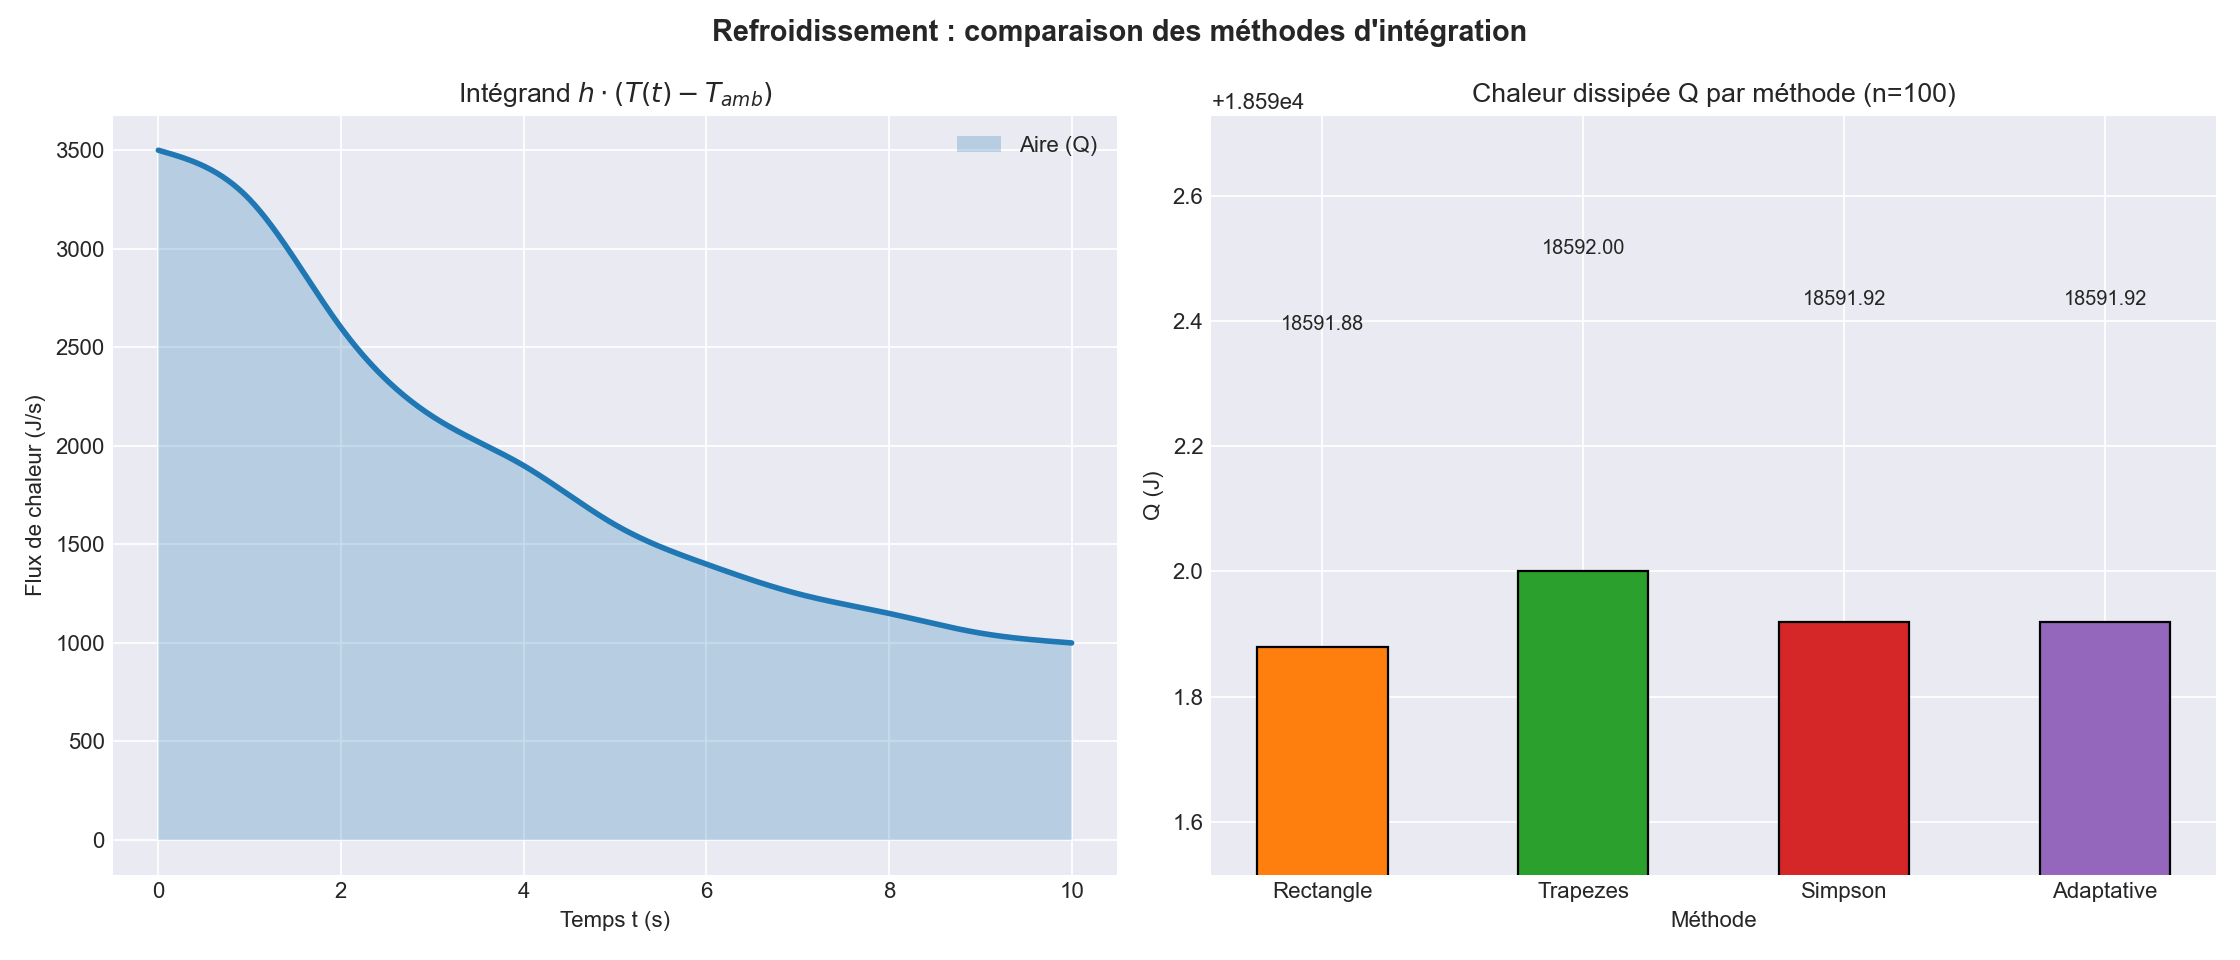
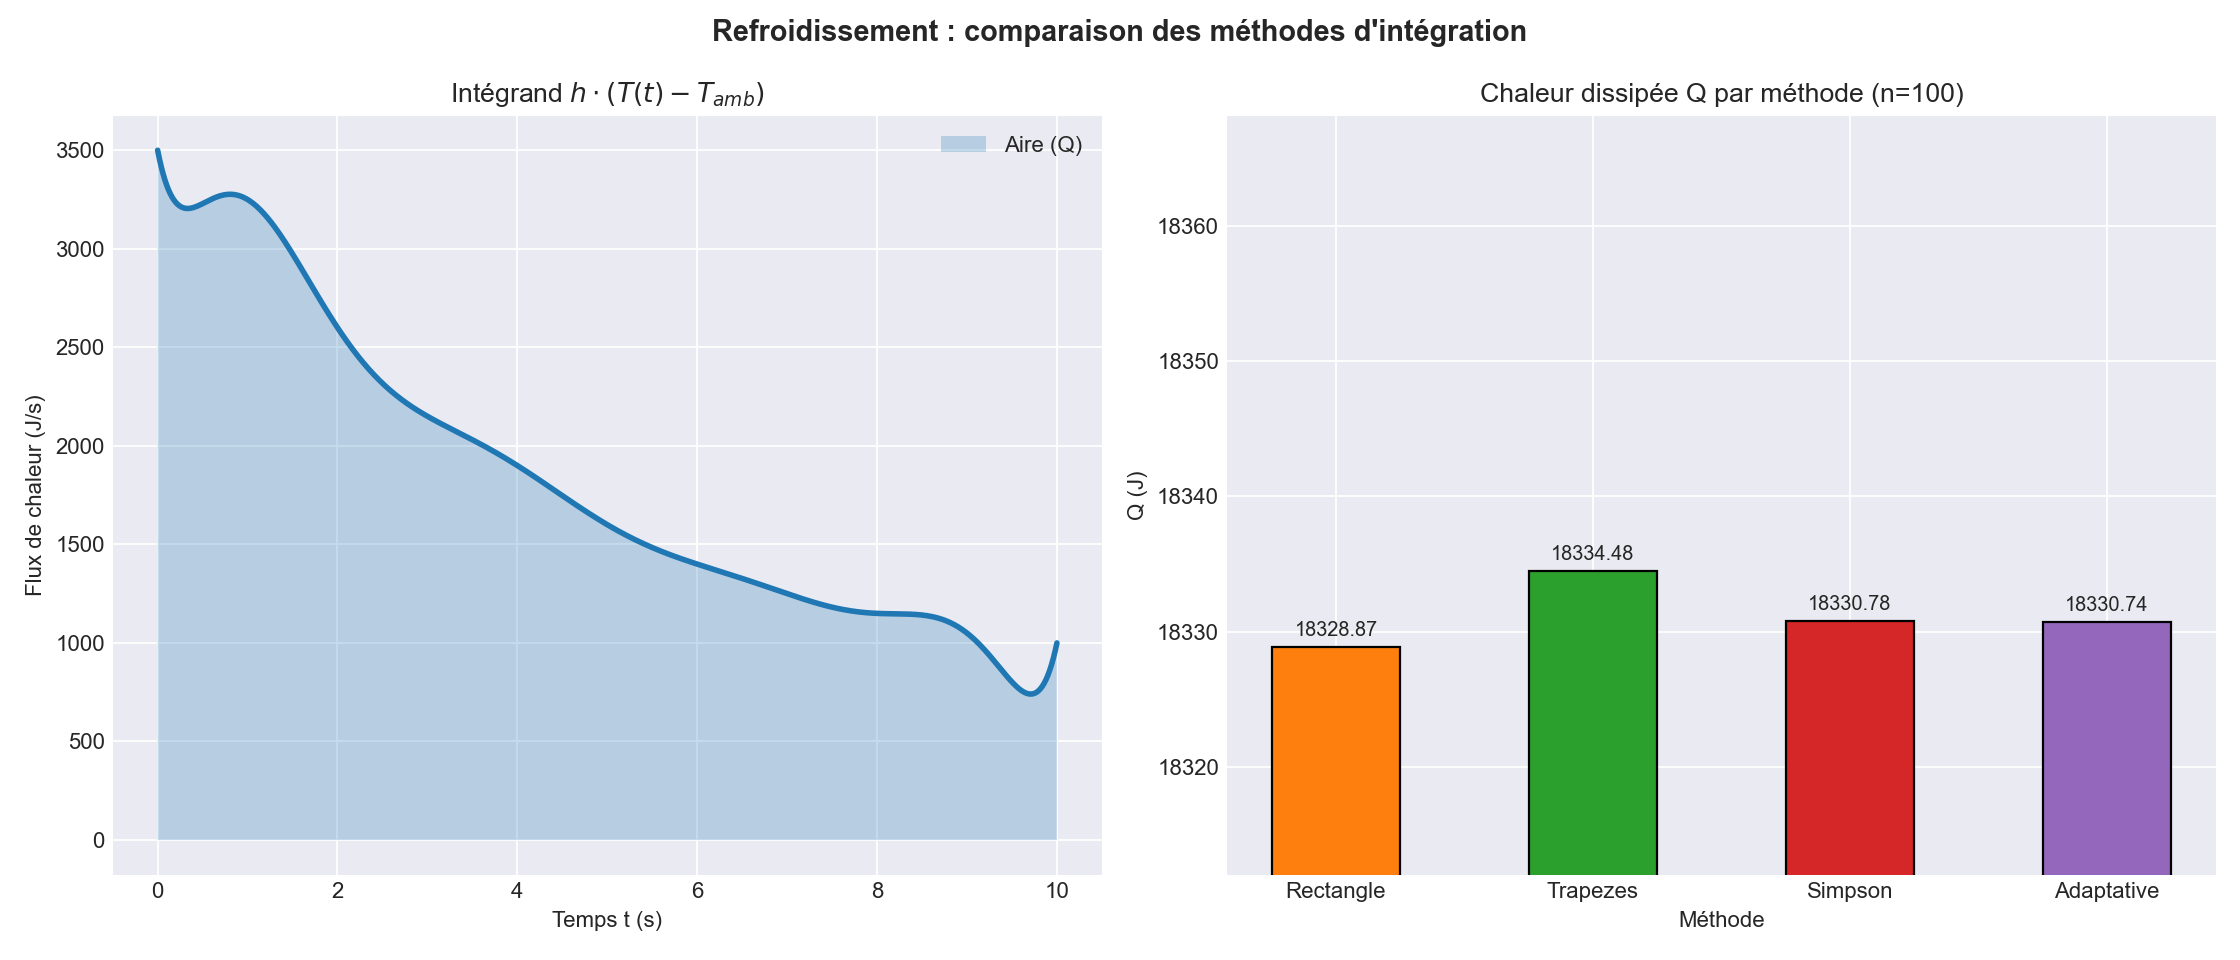
updateeee

diff --git a/applications.py b/applications.py
@@ -146,6 +146,17 @@ class FlowProblem:
     def local_flow_rate(self, x_eval):
         return self.velocity(x_eval) * self.width_func(x_eval)
 
+    def acceleration(self, x_eval):
+        h = 1e-5
+        x = np.asarray(x_eval, dtype=float)
+        return (self.velocity(x + h) - self.velocity(x - h)) / (2.0 * h)
+
+    def work(self, mass=2.0):
+        a, b = self.x_data[0], self.x_data[-1]
+        f = lambda x: mass * self.acceleration(x)
+        integ = AdaptiveIntegration()
+        return integ.adaptive_simpson(f, a, b)
+
     def total_flow_rate(self, method="adaptive", n=100):
         a, b = self.x_data[0], self.x_data[-1]
         f = lambda x: self.local_flow_rate(x)